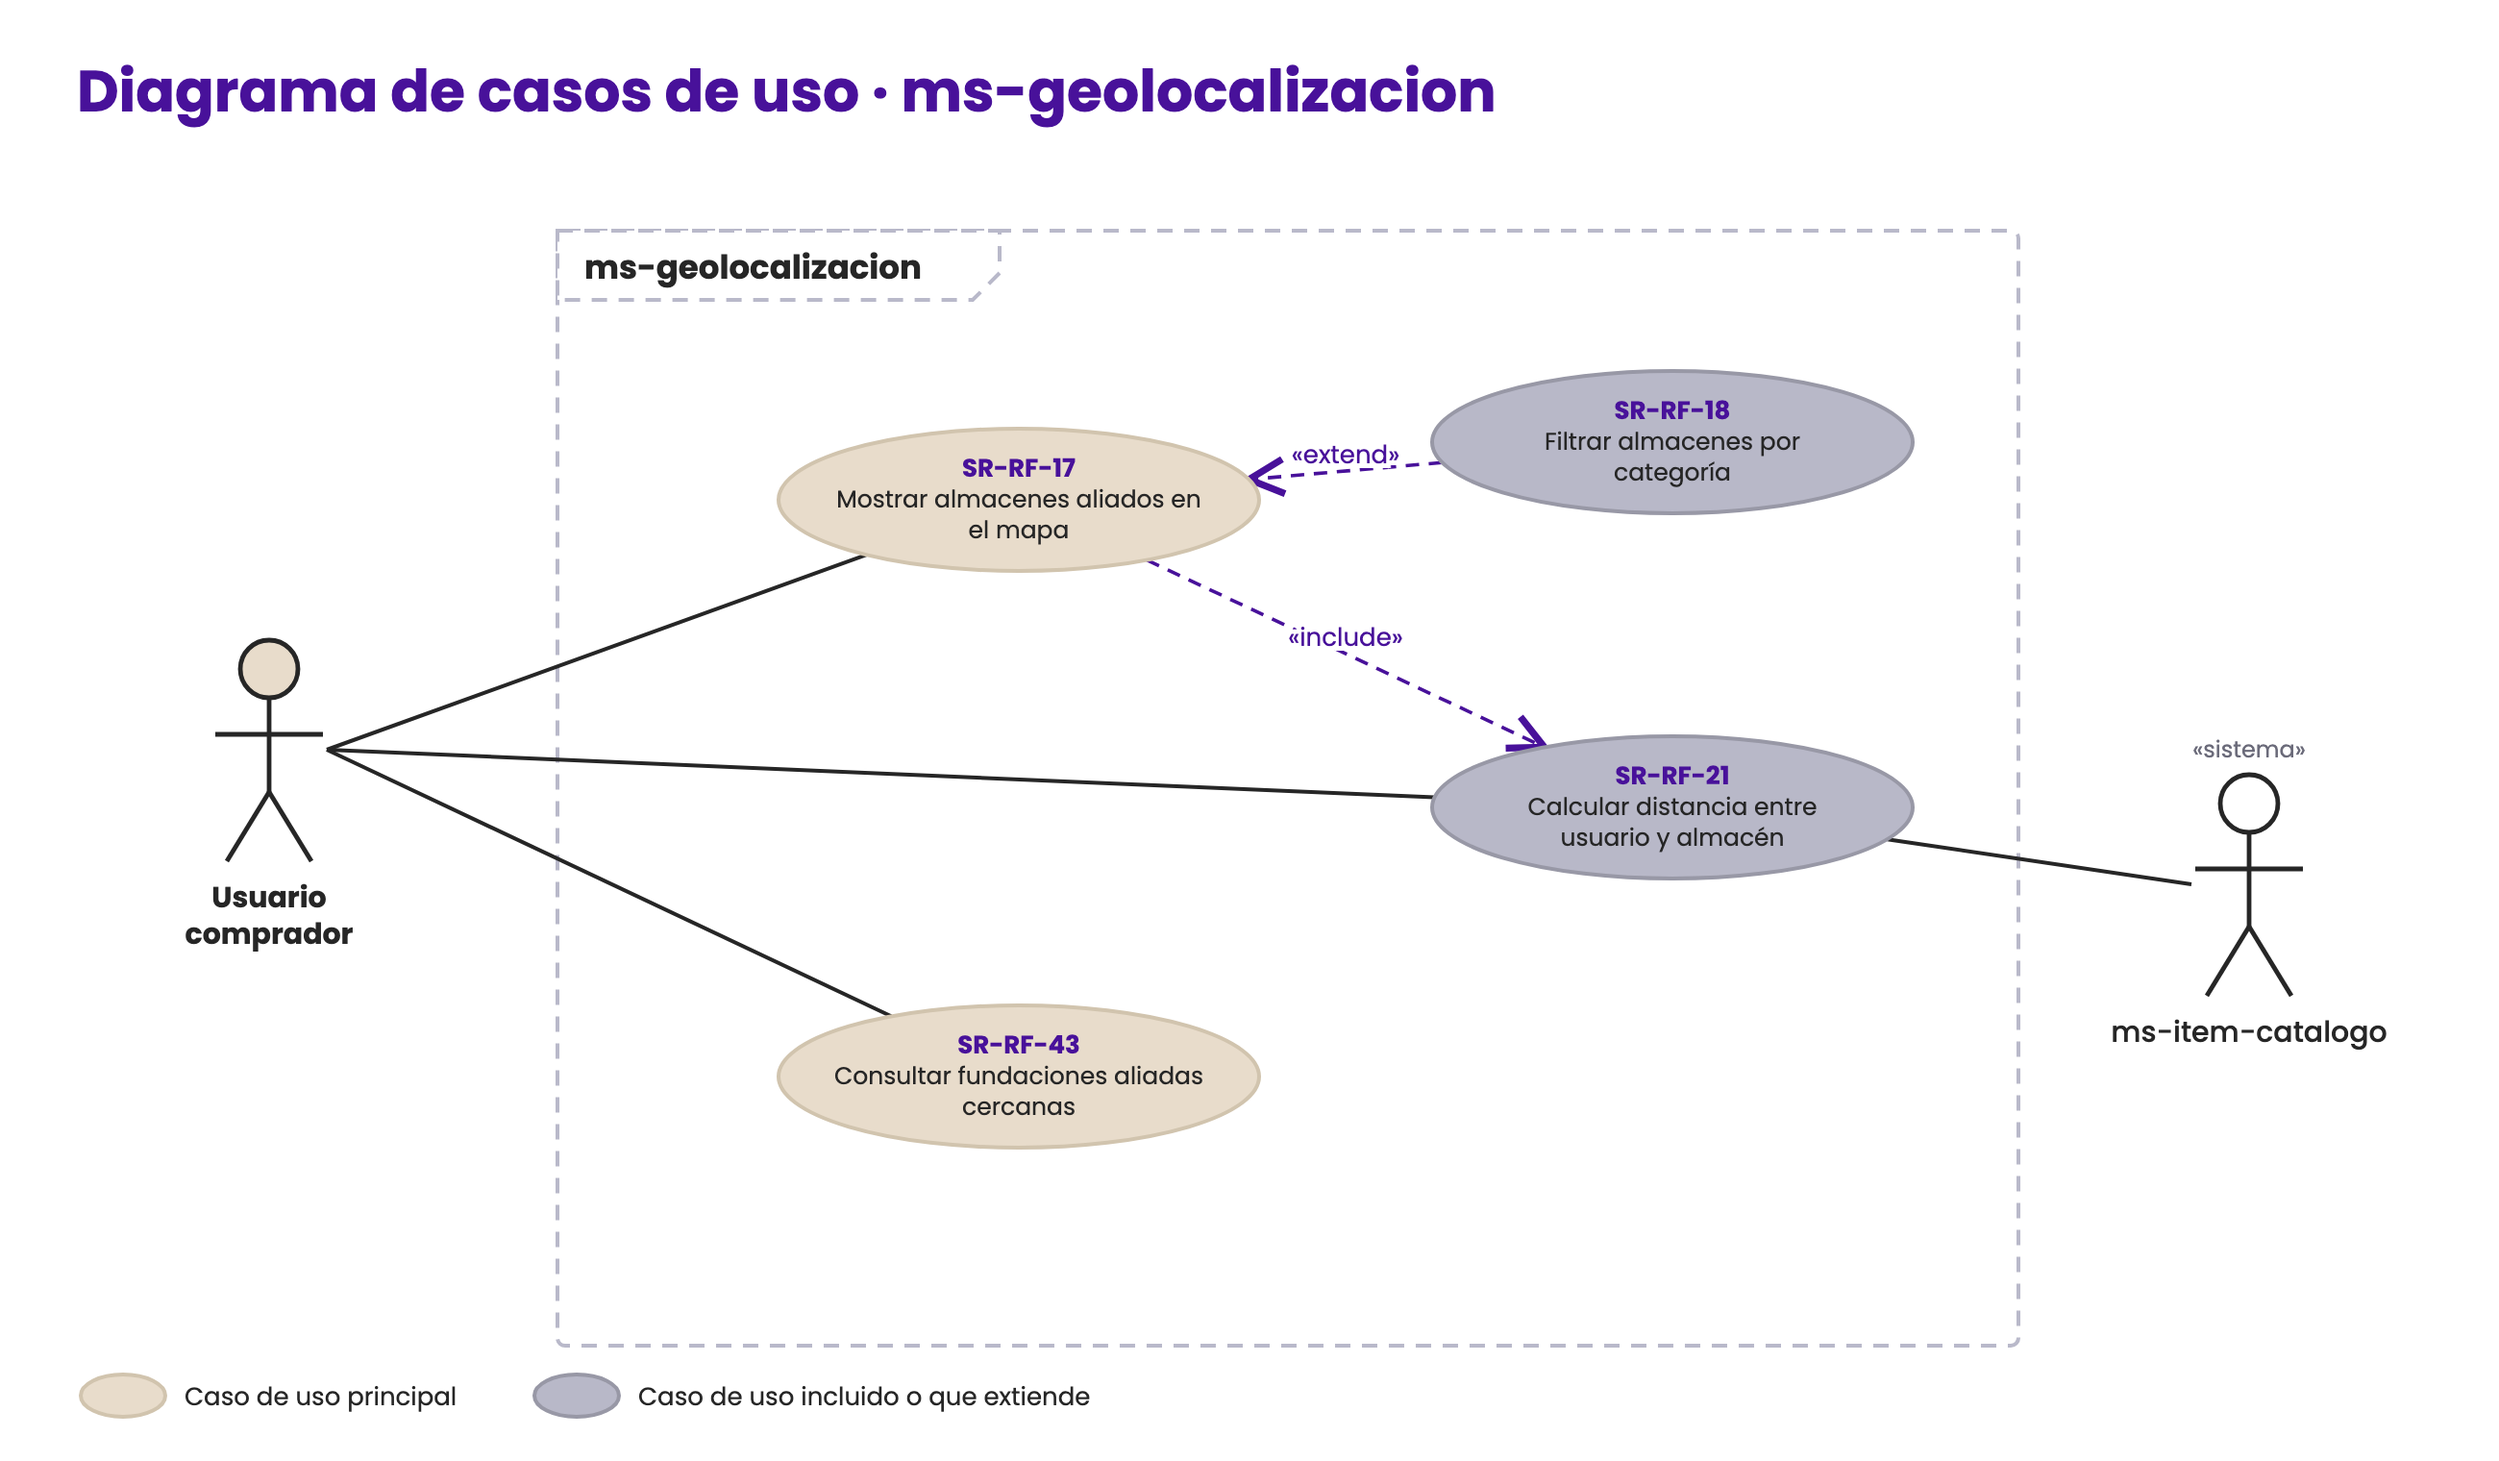
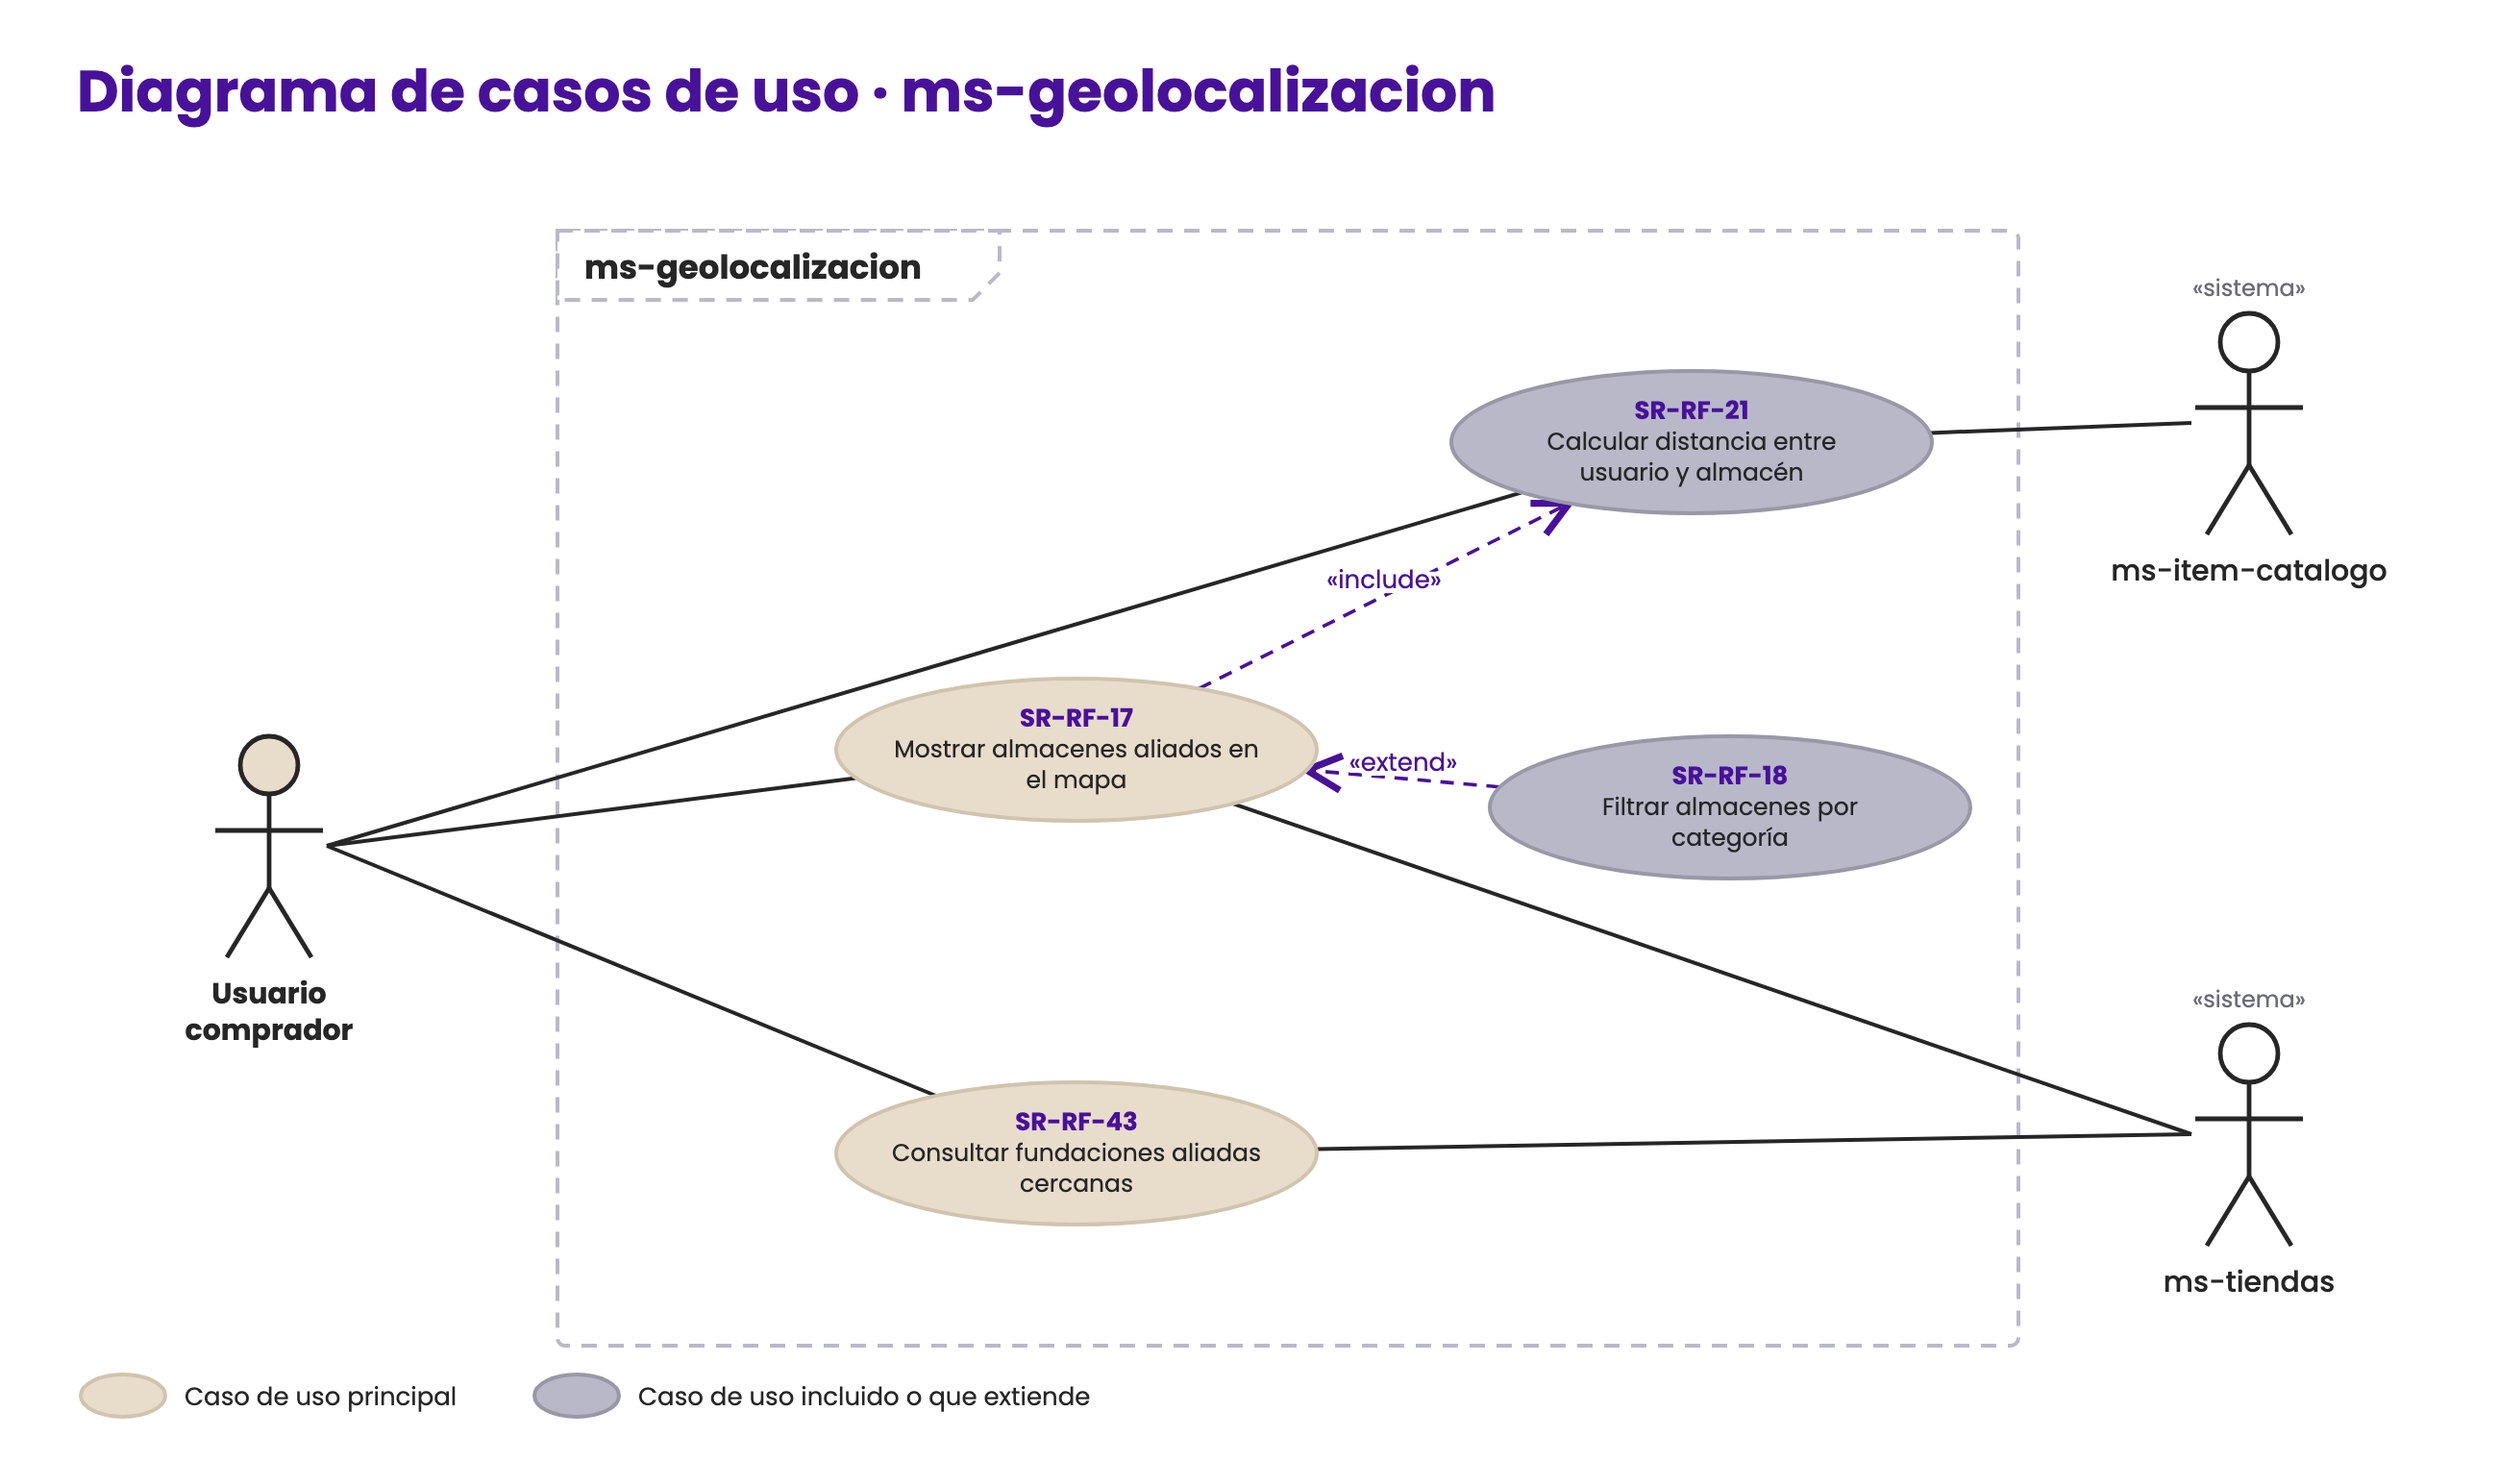
docs: add ms-tiendas to use case diagram

diff --git a/docs/03-arquitectura-hexagonal.md b/docs/03-arquitectura-hexagonal.md
@@ -20,7 +20,7 @@ El servicio sigue la arquitectura hexagonal acordada por el curso. Las reglas de
   </table>
 </div>
 
-El usuario comprador ve los almacenes aliados en el mapa según su ubicación (SR-RF-17), lo que incluye calcular la distancia a cada almacén (SR-RF-21); el filtro por categoría (SR-RF-18) extiende el mapa. También consulta la distancia a un almacén puntual y las fundaciones aliadas cercanas (SR-RF-43). `ms-item-catalogo` usa el cálculo de distancia para ordenar las prendas por cercanía. Cada caso de uso lleva el código de su requerimiento en el análisis de requerimientos, los actores usan los nombres oficiales del análisis y el rectángulo marca el límite del microservicio. El archivo editable está en `docs/evidencias/diagrama-casos-uso.drawio`.
+El usuario comprador ve los almacenes aliados en el mapa según su ubicación (SR-RF-17), lo que incluye calcular la distancia a cada almacén (SR-RF-21); el filtro por categoría (SR-RF-18) extiende el mapa. También consulta la distancia a un almacén puntual y las fundaciones aliadas cercanas (SR-RF-43). `ms-tiendas` participa como sistema externo porque de ahí se cargan los almacenes y las fundaciones que se muestran, y `ms-item-catalogo` usa el cálculo de distancia para ordenar las prendas por cercanía. Cada caso de uso lleva el código de su requerimiento en el análisis de requerimientos, los actores usan los nombres oficiales del análisis y el rectángulo marca el límite del microservicio. El archivo editable está en `docs/evidencias/diagrama-casos-uso.drawio`.
 
 ### Diagrama de Componentes General
 
